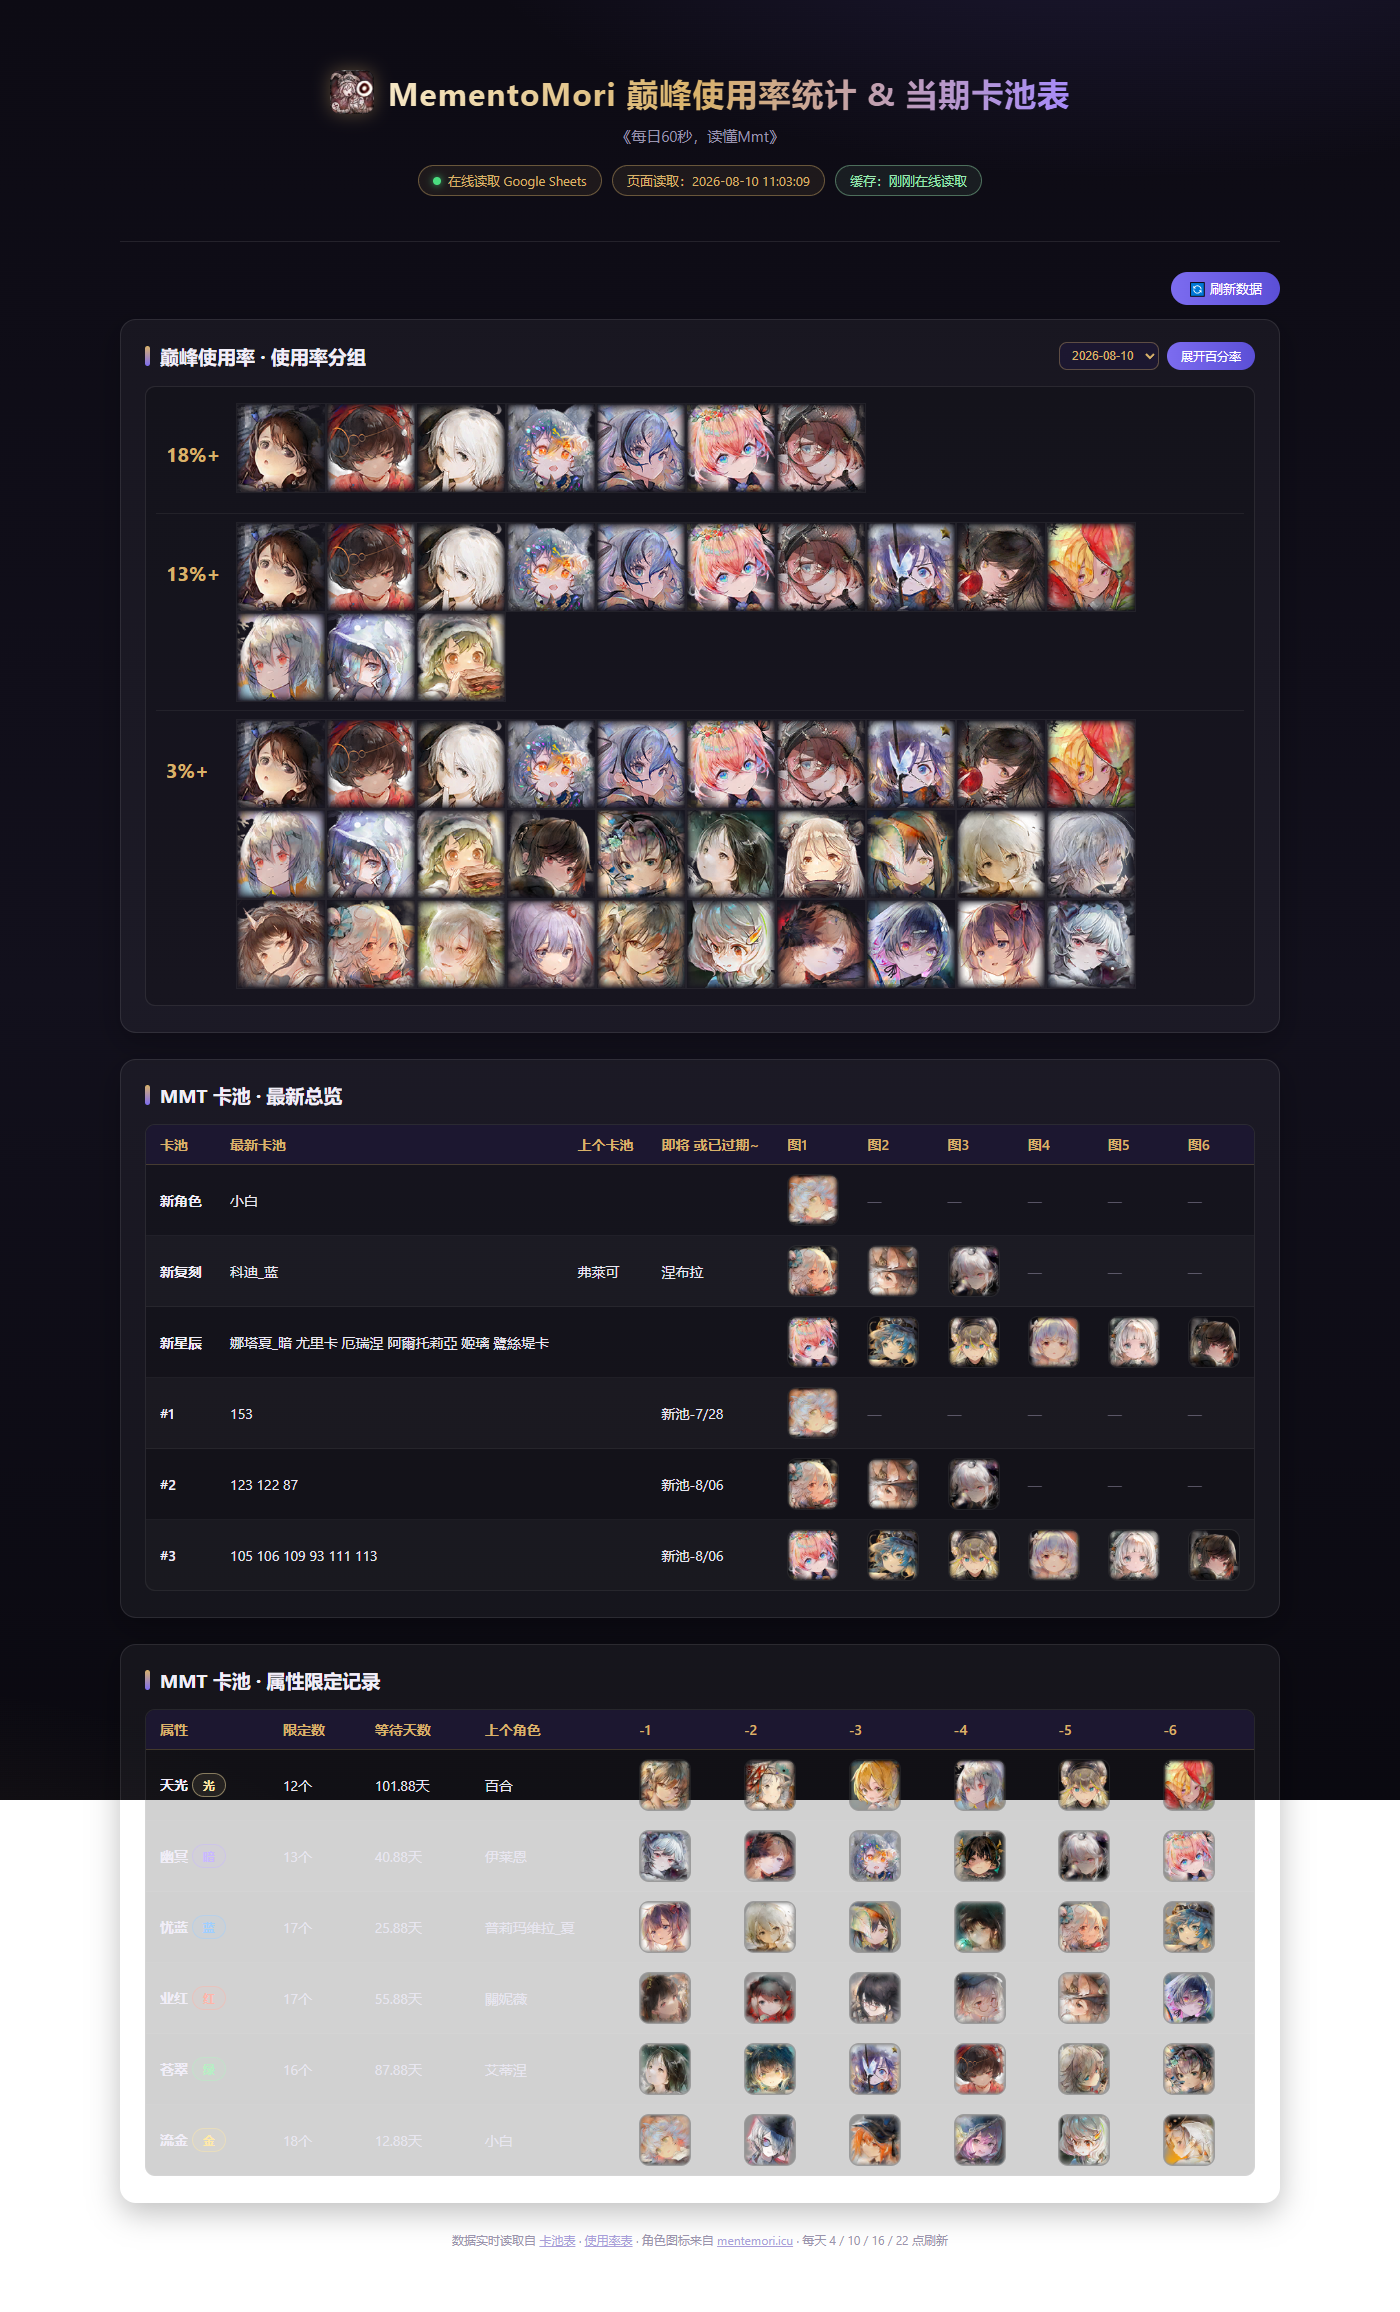
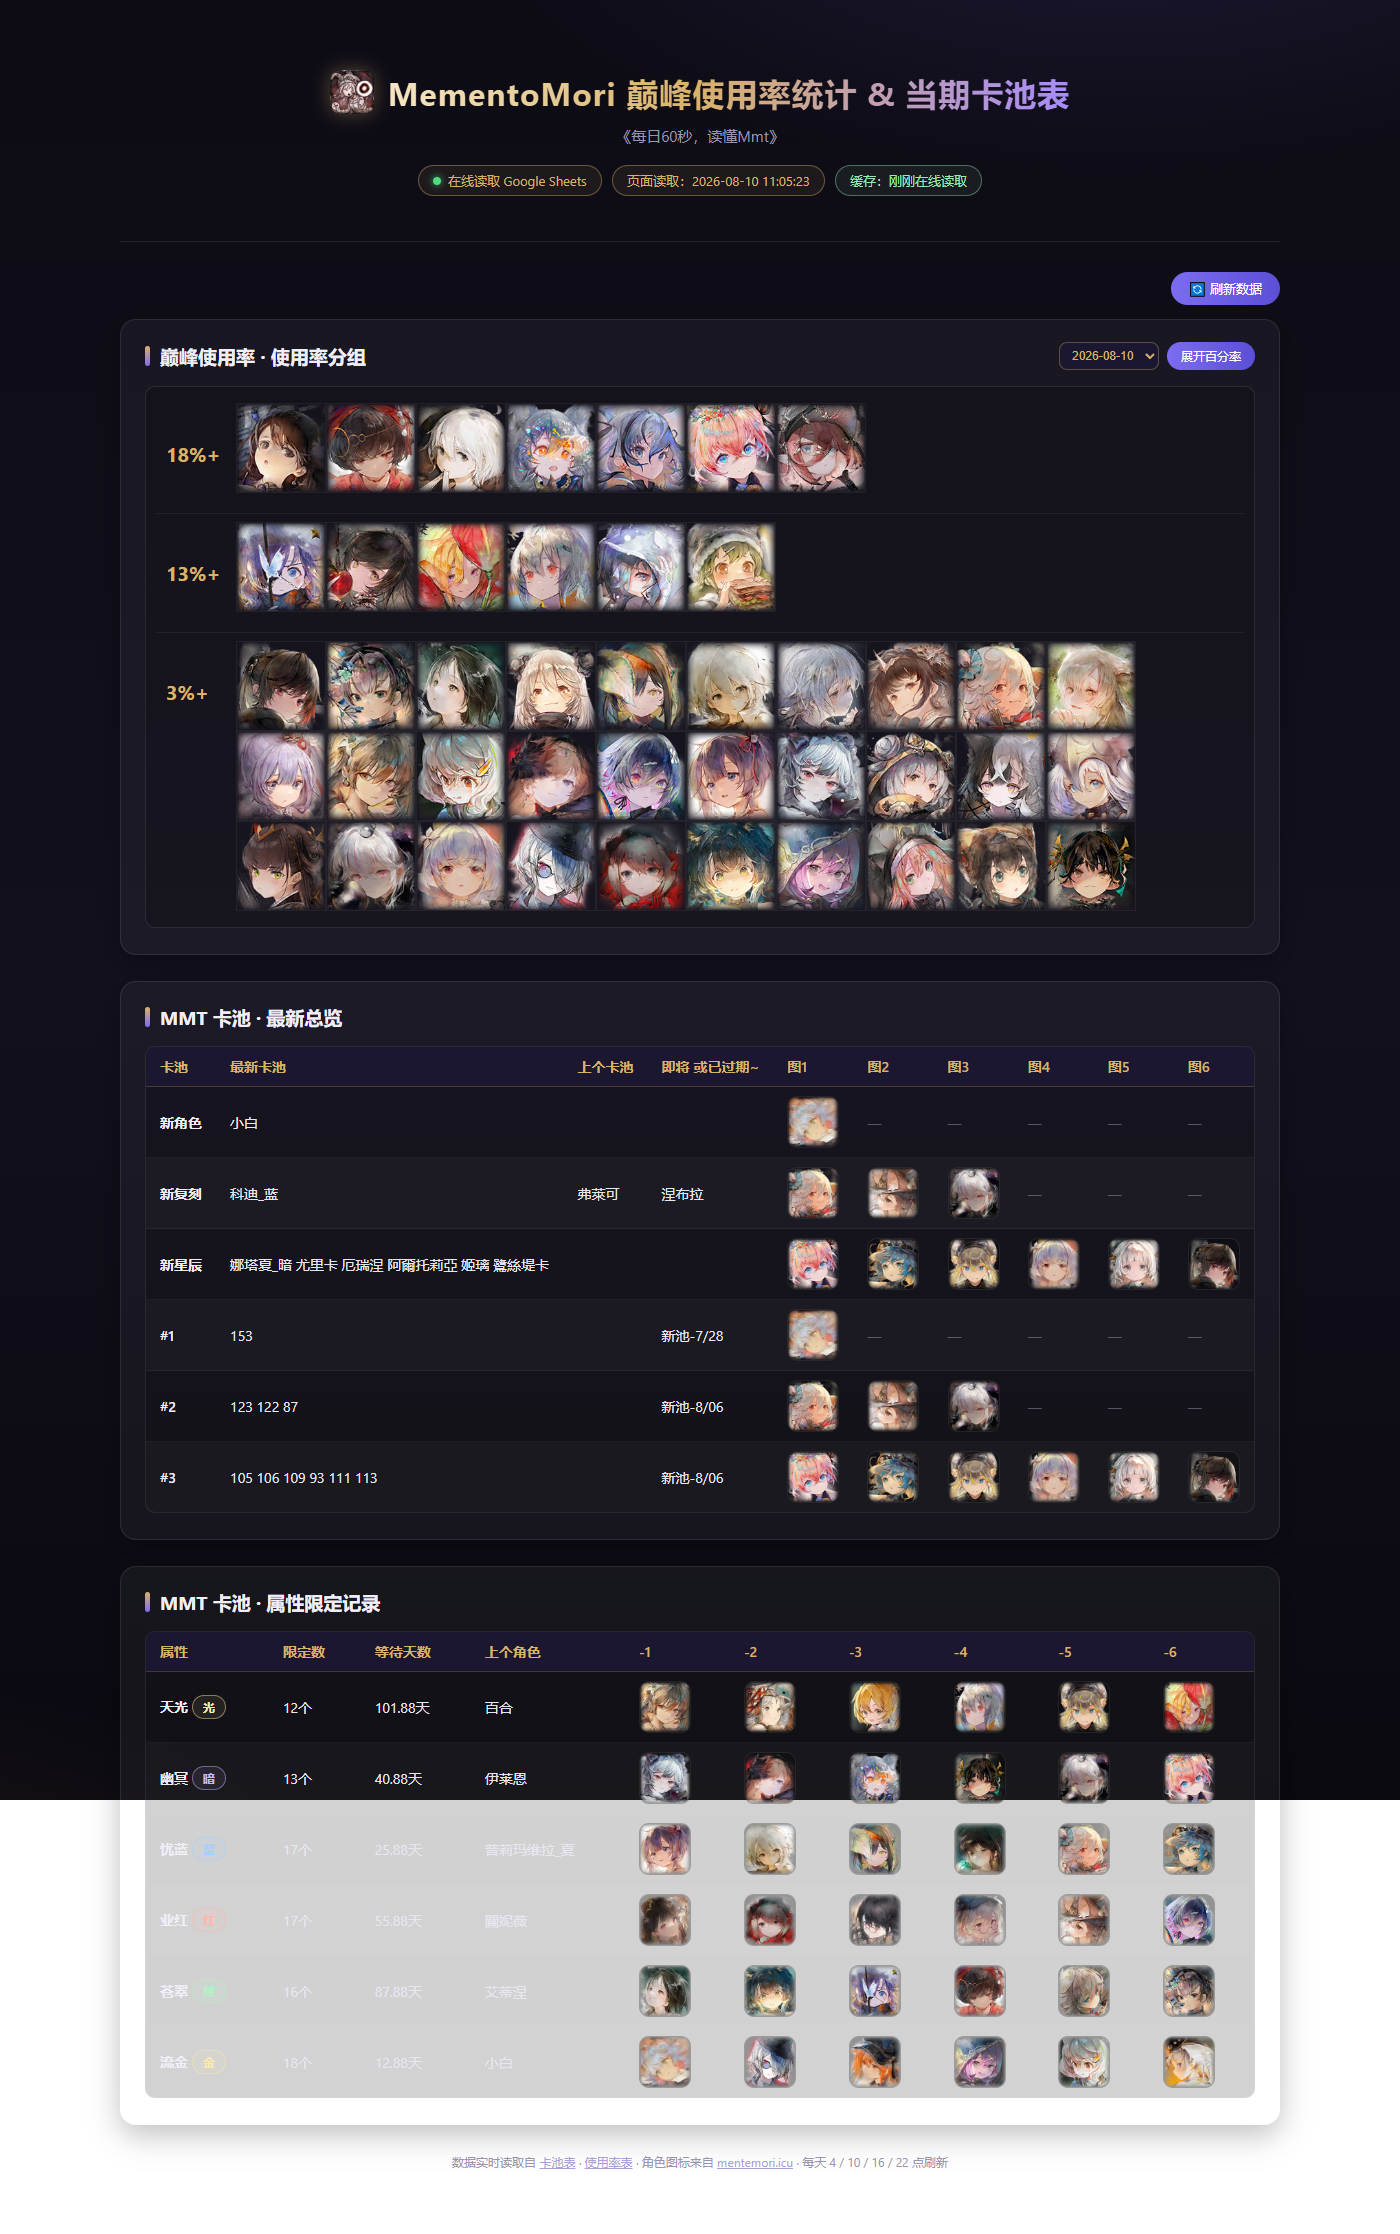
使用率各档互不包含：18%+/13%+(13~18%)/3%+(3~13%上限30)

diff --git a/index.html b/index.html
@@ -475,10 +475,10 @@ let pctOpen = false;
 
 function groupsFor(list){
   return [
-    { label: "18%+", th: 0.18, cap: Infinity },
-    { label: "13%+", th: 0.13, cap: Infinity },
-    { label: "3%+",  th: 0.03, cap: 30 }
-  ].map(g => ({ label: g.label, items: list.filter(x => x.v >= g.th).slice(0, g.cap) }));
+    { label: "18%+", min: 0.18,  max: Infinity, cap: Infinity },
+    { label: "13%+", min: 0.13,  max: 0.18,     cap: Infinity },
+    { label: "3%+",  min: 0.03,  max: 0.13,     cap: 30 }
+  ].map(g => ({ label: g.label, items: list.filter(x => x.v >= g.min && x.v < g.max).slice(0, g.cap) }));
 }
 function renderUsage(){
   const wrap = document.getElementById("tbl-usage");

diff --git a/README.md b/README.md
@@ -2,7 +2,7 @@
 メメントモリ MementoMori 巅峰使用率统计 & 当期卡池表（在线监测）
 
 - 页面纯前端实现，打开后由浏览器直接**在线读取** Google Sheets（卡池表 + 使用率表）并实时计算。
-- 第一个表格：**巅峰使用率 · 使用率分组**（18%+ / 13%+ / 3%+，3%+ 最多显示 3 行共 30 个；每行 10 个图标、可展开百分率、可选日期），数据来自「使用率表 → 动态率」分页。
+- 第一个表格：**巅峰使用率 · 使用率分组**（18%+ / 13%+ / 3%+，各档互不包含：18%+≥18%、13%+=13%~18%、3%+=3%~13% 且最多显示 3 行共 30 个；每行 10 个图标、可展开百分率、可选日期），数据来自「使用率表 → 动态率」分页。
 - 第二、三张表：**MMT 卡池 · 最新总览** 与 **MMT 卡池 · 属性限定记录**，全部按公式直接从 `卡-0` 原始数据计算（不依赖汇总表计算值）。
 - 角色图标使用 `https://mentemori.icu/assets/CHR_XXXXXX_00_s.png`（与表格里的 `=IMAGE` 一致），不生成图片。
 - 浏览器本地缓存：同一浏览器 1 小时内再次打开直接秒开（不请求 Google），每天 4 / 10 / 16 / 22 点才重新在线读取一次；“刷新数据”按钮可强制重新读取。
